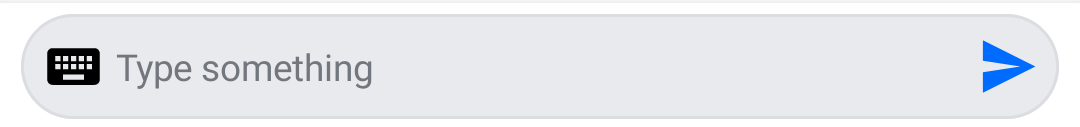
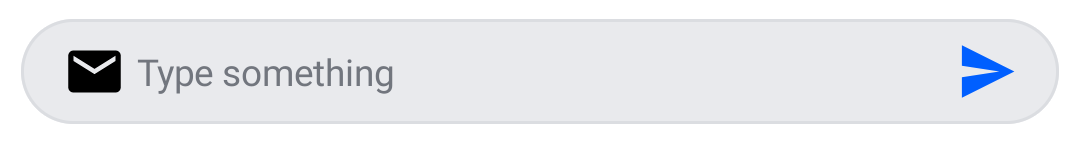
[4543] Update the screenshots

diff --git a/stream-chat-android-docs/src/main/kotlin/io/getstream/chat/docs/kotlin/compose/messages/MessageComposer.kt b/stream-chat-android-docs/src/main/kotlin/io/getstream/chat/docs/kotlin/compose/messages/MessageComposer.kt
@@ -20,6 +20,8 @@ import androidx.compose.foundation.layout.wrapContentWidth
 import androidx.compose.material.Icon
 import androidx.compose.material.Scaffold
 import androidx.compose.material.Text
+import androidx.compose.material.icons.Icons
+import androidx.compose.material.icons.filled.Email
 import androidx.compose.material.ripple.rememberRipple
 import androidx.compose.runtime.Composable
 import androidx.compose.runtime.remember
@@ -203,7 +205,7 @@ private object MessageComposerCustomizationSnippet {
                                 verticalAlignment = Alignment.CenterVertically
                             ) {
                                 Icon(
-                                    painter = painterResource(R.drawable.ic_keyboard),
+                                    imageVector = Icons.Default.Email,
                                     contentDescription = null
                                 )
 
@@ -226,7 +228,8 @@ private object MessageComposerCustomizationSnippet {
 
                                         composerViewModel.sendMessage(
                                             composerViewModel.buildNewMessage(
-                                                state.inputValue, state.attachments
+                                                state.inputValue,
+                                                state.attachments
                                             )
                                         )
                                     },
